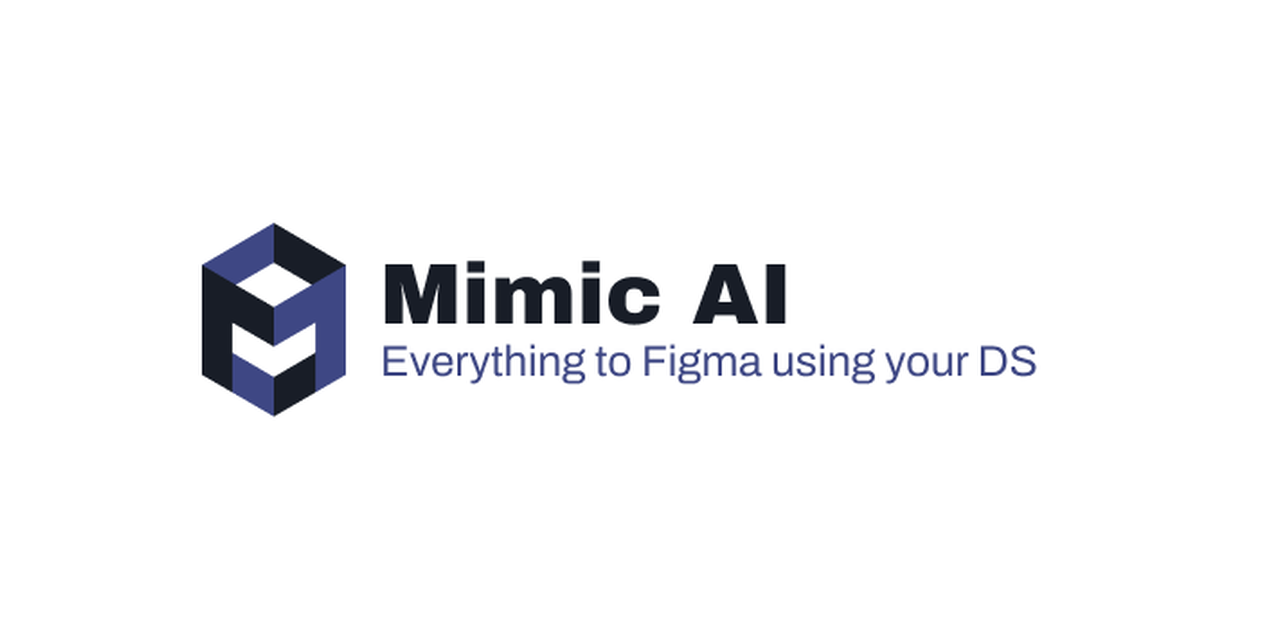
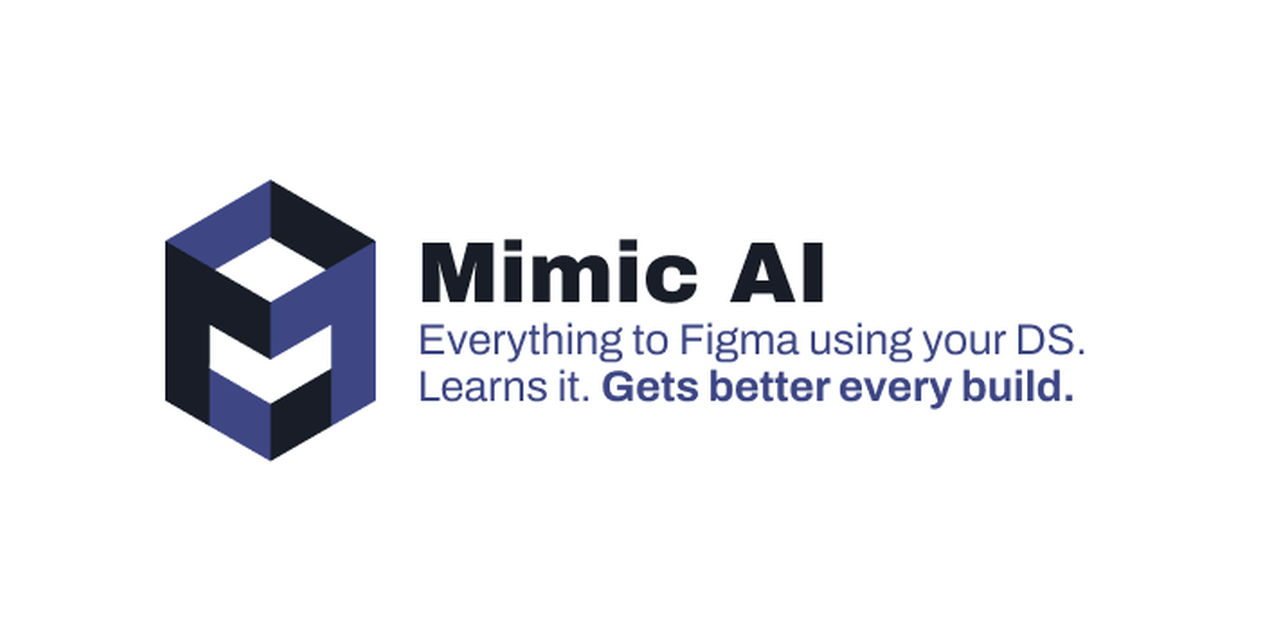
docs: update tagline and social preview

Changed region(s): [[0.125, 0.2812, 0.8438, 0.7188]]

diff --git a/README.md b/README.md
@@ -4,7 +4,7 @@
 
 # Mimic AI
 
-**The design system copilot that learns your system and gets better every time you use it.**
+**Everything to Figma using your DS. Learns it. Gets better every build.**
 
 Give Mimic any HTML, a prompt, or a description. It builds production-ready Figma using your real components, tokens, and auto-layout. Correct it once, it remembers forever. After every build, it tells you what your design system is missing.
 
